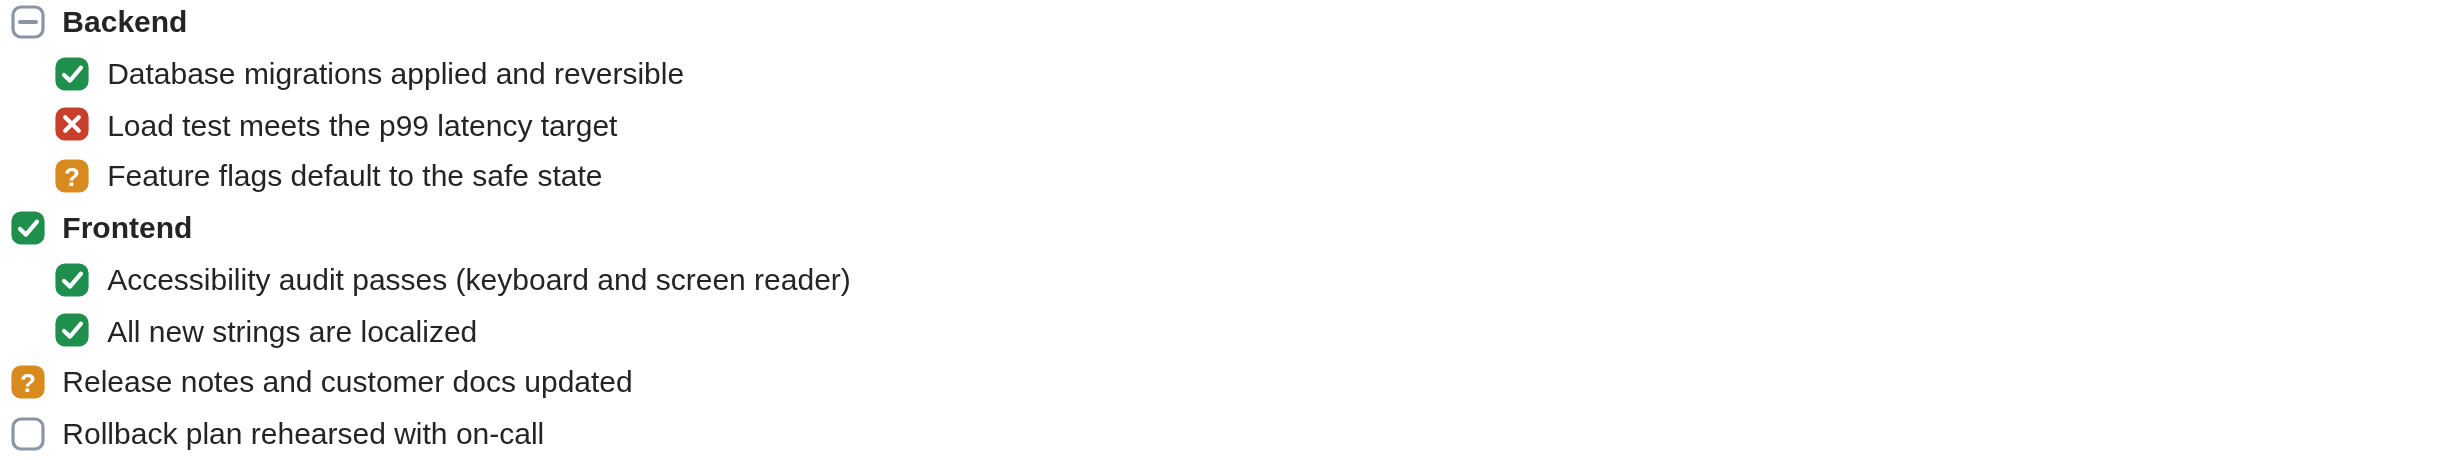
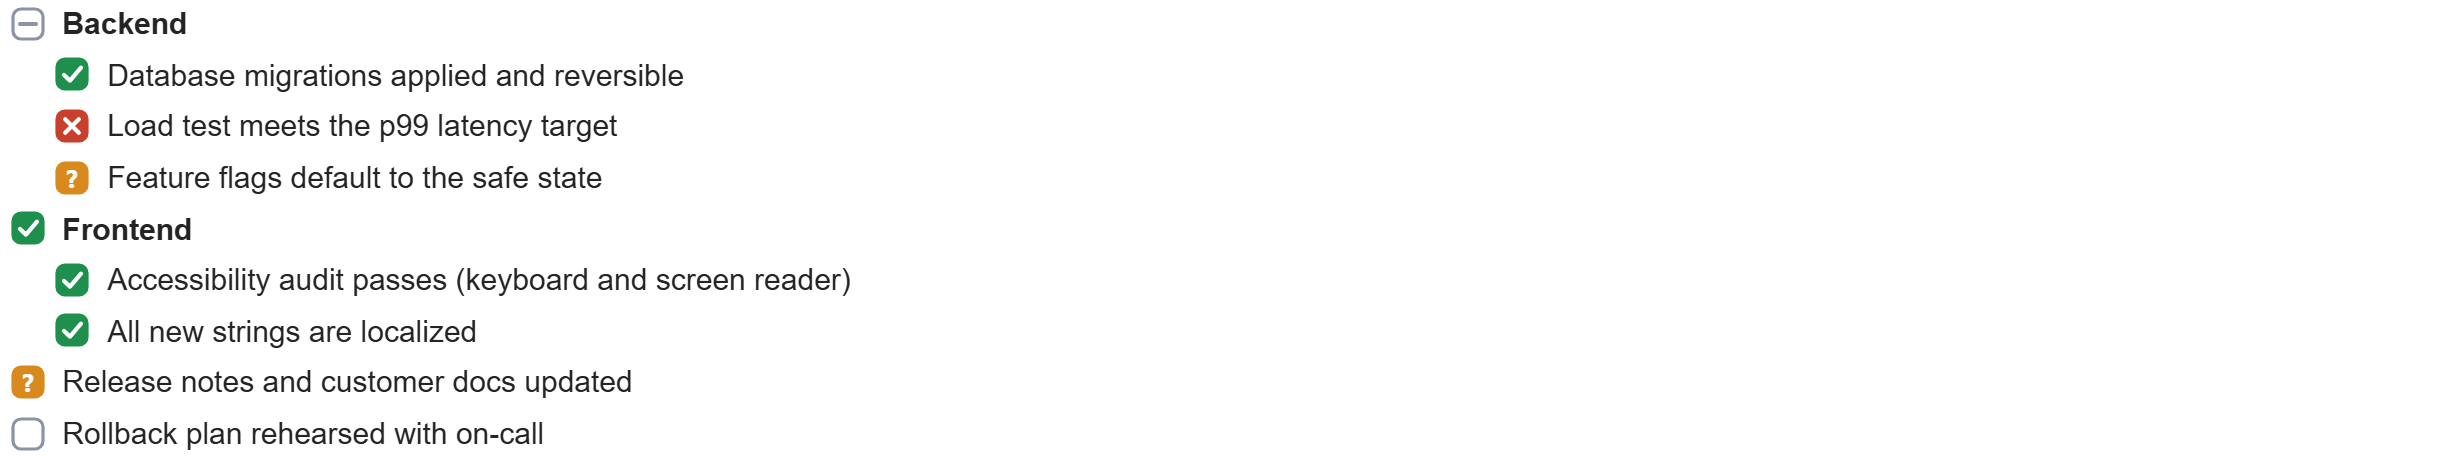
commentable-html: deck Backspace navigates to the previous slide
Add Backspace as a 'previous slide' key in deck mode, alongside ArrowLeft
and PageUp, matching the de-facto slide-tool convention. It respects the
existing navigation guards (editable target, comment mode, blocking deck
chrome). Updates CMH-DECK-05 spec + the CMH-DECK-05d Playwright test.

Closes #497

diff --git a/plugins/commentable-html/dev/tests/52-deck.spec.js b/plugins/commentable-html/dev/tests/52-deck.spec.js
@@ -95,7 +95,7 @@ test.describe("deck runtime profile (CMH-DECK-05)", () => {
       window.__evts = [];
       document.addEventListener("cmh:slidechange", (e) => window.__evts.push(e.detail));
     });
-    // ArrowRight / Space / PageDown advance; ArrowLeft / PageUp go back; Home / End jump to ends.
+    // ArrowRight / Space / PageDown advance; ArrowLeft / PageUp / Backspace go back; Home / End jump to ends.
     await page.keyboard.press("ArrowRight");
     expect(await activeId(page)).toBe("slide-00000002");
     await expect(page.locator(".cmh-deck-count")).toHaveText("2 / 3");
@@ -105,6 +105,8 @@ test.describe("deck runtime profile (CMH-DECK-05)", () => {
     expect(await activeId(page)).toBe("slide-00000002");
     await page.keyboard.press("PageDown");
     expect(await activeId(page)).toBe("slide-00000003");
+    await page.keyboard.press("Backspace");
+    expect(await activeId(page)).toBe("slide-00000002");
     await page.keyboard.press("Home");
     expect(await activeId(page)).toBe("slide-00000001");
     await page.keyboard.press("End");

diff --git a/plugins/commentable-html/dev/assets/js/01-config.js b/plugins/commentable-html/dev/assets/js/01-config.js
@@ -30,7 +30,7 @@ const SAFE_ID_RE = /^c[a-z0-9]{6,63}$/;
 
 // Version of this runtime, stamped from dev/VERSION by build.py. Do not hand-edit;
 // bump dev/VERSION and rebuild.
-const CMH_VERSION = "1.175.0";
+const CMH_VERSION = "1.178.0";
 const CMH_REGION_NAMES = ["CSS", "HANDLED IDS", "EMBEDDED COMMENTS", "COMMENT UI", "JS"];
 // Inline brand icon (a comment bubble) used in the sidebar meta row, the footer, and the
 // Help About section. Uses the accent color so it matches the theme.

diff --git a/plugins/commentable-html/dev/assets/js/95-startup.js b/plugins/commentable-html/dev/assets/js/95-startup.js
@@ -845,7 +845,7 @@ function setupDeck() {
     if (commentMode || e.defaultPrevented || isEditableTarget(e.target) || hasBlockingDeckChrome()) return;
     if (e.key === "ArrowRight" || e.key === "PageDown") {
       if (show(current + 1)) e.preventDefault();
-    } else if (e.key === "ArrowLeft" || e.key === "PageUp") {
+    } else if (e.key === "ArrowLeft" || e.key === "PageUp" || e.key === "Backspace") {
       if (show(current - 1)) e.preventDefault();
     } else if (e.key === "Home") {
       if (show(0)) e.preventDefault();

diff --git a/plugins/commentable-html/CHANGELOG.md b/plugins/commentable-html/CHANGELOG.md
@@ -4,6 +4,15 @@ All notable changes to the `commentable-html` plugin are documented here. The fo
 [Keep a Changelog](https://keepachangelog.com/en/1.1.0/) and versions follow
 [Semantic Versioning](https://semver.org/spec/v2.0.0.html).
 
+## [1.178.0] - 2026-07-20
+
+### Added
+
+- Deck mode now accepts `Backspace` as a "previous slide" key, alongside `ArrowLeft` and `PageUp`, so
+  presenters can step one slide back with the key many slide tools use (CMH-DECK-05). It respects the
+  same guards as the other navigation keys: it does not move slides while a comment field or other
+  editable target is focused, or while the comment-options menu or other blocking deck chrome is open.
+
 ## [1.175.0] - 2026-07-19
 
 ### Fixed

diff --git a/plugins/commentable-html/dev/SPEC.md b/plugins/commentable-html/dev/SPEC.md
@@ -509,7 +509,7 @@ The commentable-html skill incorporates the third-party frontend-slides design s
 | CMH-DECK-THEME-04 | The maintainer refresh flow for the native presets is two dev-only tools. `dev/tools/fs_theme_convert.py` deterministically converts a frontend-slides `STYLE_PRESETS.md` style into a STARTER `<name>.theme.json`: darkest colour to the slide/stage background, lightest to the foreground, most-saturated mid to the accent, the higher-contrast black/white for the accent text, a distinct mid (else a neutral gray) for muted, and remote display/body fonts substituted for the approved system stacks (reusing `deck_fix_fonts`); every emitted token is in the theme allowlist, the output is flagged `_starter` (not required to pass the strict validator) and carries frontend-slides `adaptedFrom` provenance plus the vendored `sourceCommit`. `dev/tools/check_theme_sources.py` is the staleness gate (a step in the required `validate` CI job): it fails closed when a `tools/deck/themes/*.theme.json` lacks `adaptedFrom`/`sourceCommit` or when its `sourceCommit` lags the vendored frontend-slides commit (an unacknowledged upstream change), and a maintainer acknowledges a refresh - re-ported or "reviewed, no change" - by setting `sourceCommit` to the new vendored commit. | `tests/test_fs_theme_convert.py` - `test_darkest_colour_becomes_the_slide_and_stage_background`, `test_lightest_colour_becomes_the_foreground`, `test_most_saturated_mid_colour_becomes_the_accent`, `test_accent_fg_is_the_higher_contrast_of_black_or_white`, `test_muted_is_a_distinct_mid_colour_not_the_accent`, `test_muted_falls_back_to_a_neutral_gray_when_no_spare_colour`, `test_fonts_are_substituted_for_approved_system_stacks`, `test_unrecognized_font_family_maps_to_a_system_stack_not_null`, `test_no_token_carries_a_remote_or_upstream_font_family`, `test_every_emitted_token_is_in_the_theme_allowlist`, `test_output_is_a_flagged_starter_with_frontend_slides_provenance`, `test_conversion_is_deterministic`, `test_degenerate_single_colour_palette_raises`, `test_four_digit_hex_with_alpha_is_parsed`, `test_unknown_preset_raises`, `test_bold_signal_from_the_vendored_presets_file`, `test_cli_writes_a_starter_file`, `test_cli_unknown_preset_exits_nonzero`; `tests/test_check_theme_sources.py` - `test_real_presets_pass`, `test_matching_source_commit_passes`, `test_missing_adapted_from_fails`, `test_missing_source_commit_fails`, `test_stale_source_commit_is_an_unacknowledged_change_and_fails`, `test_acknowledging_the_refresh_clears_the_failure`, `test_invalid_json_fails`, `test_unparseable_upstream_commit_fails_closed`, `test_cli_returns_zero_on_real_presets` |
 | CMH-DECK-THEME-05 | An objective A/B evaluation harness (`dev/eval/theme_eval.py`) gates preset expansion on measurable quality instead of eyeballing. It renders a fixed corpus of deck slide fragments (`dev/eval/corpus/*.html`) under an unthemed baseline AND every shipped preset via the real `deck_scaffold` -> `deck_validate` path, and records per (theme, corpus) cell: the create-time result (0 == deck-contract + AA-contrast pass), the `deck_checks` error count (must be 0), the `deck_warnings` content-overload advisory count (clipping proxy, must be 0), and the byte delta a theme adds over the baseline (token/latency proxy, bounded by a ceiling). `gate_failures()` turns these into pass/fail thresholds so a new preset that fails contrast, clips authored content, or bloats a deck fails the gate; the subjective "blind visual preference" leg is an explicit manual step (documented in `frontend-slides-upstream-sync.md`), not automated. | `tests/test_theme_eval.py` - `test_real_corpus_and_themes_pass_the_gate`, `test_every_shipped_theme_and_the_baseline_are_covered`, `test_each_theme_adds_a_bounded_nonzero_block`, `test_gate_catches_a_real_content_overload_slide`, `test_gate_catches_a_scaffold_failure`, `test_gate_catches_a_validator_error`, `test_gate_catches_theme_bloat`, `test_clean_rows_have_no_failures`, `test_cli_returns_zero_on_the_real_corpus`, `test_cli_fails_closed_on_an_empty_or_missing_corpus` |
 | CMH-DECK-THEME-06 | The shipped preset set includes two LIGHT native presets alongside the dark `terminal`: `paper` (warm-cream, editorial-serif, crimson accent) and `editorial` (soft-cream, serif, deep-teal accent), each adapted from a frontend-slides `STYLE_PRESETS.md` style (credited via `adaptedFrom` + `sourceCommit`). Because the default component tokens are dark, a light preset overrides the full token set (slide + code + syntax + table head + diff + mermaid) and still passes `_deck_theme.load` (both the composited effective-contrast check over translucent diff rows and its own opaque `contrastPairs` self-check at AA), and the objective harness (CMH-DECK-THEME-05) renders both clean (no validator error, no clipping advisory, bounded byte delta). To keep light decks legible, the previously hard-coded-dark code-control surfaces are now themeable via `var(--token, <byte-exact default>)`: the code/KQL language + copy badge background (`--cmh-deck-code-badge-bg`), the KQL run-link hover colour (`--cmh-deck-code-link-hover-fg`), and the Mermaid subgraph cluster fill/stroke (`--cmh-deck-mermaid-cluster-fill`/`-stroke`); the light presets set readable values and self-check the badge and cluster-label pairs. | `tests/test_deck_theme.py` - `test_new_light_presets_ship_and_list`, `test_every_shipped_preset_loads_and_self_checks`, `test_new_presets_are_light`, `test_new_presets_carry_frontend_slides_provenance`, `test_new_presets_render_a_scoped_labelled_block`; `tests/test_theme_eval.py` - `test_every_shipped_theme_and_the_baseline_are_covered`, `test_real_corpus_and_themes_pass_the_gate` |
-| CMH-DECK-05 | The runtime deck profile (activated by `#commentRoot[data-cmh-mode="deck"]` on the real content root) exposes `window.__cmhDeck` (`showSlide`/`showSlideById`/`activeSlideId`/`slideCount`), scales the fixed 1920x1080 stage to exactly `min(vw/1920, vh/1080)` (including refits on window resize and the open-panel sidebar inset), starts on the first slide and navigates by keyboard / id / the slide control bar, gates navigation while focus is editable or blocking deck chrome is open, guards invalid navigation calls, dispatches `cmh:slidechange` only for a changed active slide, installs deck chrome exactly once, suppresses flow-document chrome, and defaults to closed mode: comments are enabled, the review panel and toolbar are hidden, text selection and right-click document comments are available, and the slide is full-screen. Open mode reveals the sidebar, narrows and refits the stage, force-reveals staged slide content, and gates navigation keys. Off mode suppression and persistence are covered by CMH-DECK-22. Comment cards jump to their owning slide (including non-text `[data-cids~]` anchors and document-wide comments) with highlights restoring on hidden slides across reload. Transient deck body classes are stripped on export, and Export Offline round-trips a deck with comments and card jumps with zero network. The sidebar empty state carries a deck-specific hint; on narrow screens the controls yield to the open sidebar. Non-deck documents are unaffected. | `tests/52-deck.spec.js` - `CMH-DECK-05: exposes the controller and starts on the first slide`, `CMH-DECK-05d: keyboard, id, and prev/next navigation; doc-mode chrome suppressed`, `CMH-DECK-05d: typing in an editable field does not navigate; deck chrome is installed once`, `CMH-DECK-05d: the deck-aware jump resolves a non-text ([data-cids~]) anchor's slide`, `CMH-DECK-05d: cmh:slidechange fires only for a changed active slide`, `CMH-DECK-05: the stage refits on viewport resize and open mode narrows it`, `CMH-DECK-05: slides fit the fixed 1080px stage and vertical overflow is detectable as clipping`, `CMH-DECK-05a: default closed mode hides the panel; open mode reveals it and gates keys`, `CMH-DECK-05a: default closed mode allows the doc-comment menu; off mode suppresses it`, `CMH-DECK-05a: on a narrow screen the deck controls yield to the open sidebar`, `CMH-DECK-05a: open mode force-reveals staged slide content`, `CMH-DECK-05c/05d: a comment restores on a hidden slide and its card jumps to that slide`, `CMH-DECK-05c: a comment on a hidden slide restores after reload`, `CMH-DECK-05: a REAL scaffolded deck activates the runtime, not the flow-document chrome`, `CMH-DECK-05: Export Offline round-trips a deck (mode + comments + card jump) with zero network` |
+| CMH-DECK-05 | The runtime deck profile (activated by `#commentRoot[data-cmh-mode="deck"]` on the real content root) exposes `window.__cmhDeck` (`showSlide`/`showSlideById`/`activeSlideId`/`slideCount`), scales the fixed 1920x1080 stage to exactly `min(vw/1920, vh/1080)` (including refits on window resize and the open-panel sidebar inset), starts on the first slide and navigates by keyboard (ArrowRight/PageDown/Space advance, ArrowLeft/PageUp/Backspace go back, Home/End jump to the ends) / id / the slide control bar, gates navigation while focus is editable or blocking deck chrome is open, guards invalid navigation calls, dispatches `cmh:slidechange` only for a changed active slide, installs deck chrome exactly once, suppresses flow-document chrome, and defaults to closed mode: comments are enabled, the review panel and toolbar are hidden, text selection and right-click document comments are available, and the slide is full-screen. Open mode reveals the sidebar, narrows and refits the stage, force-reveals staged slide content, and gates navigation keys. Off mode suppression and persistence are covered by CMH-DECK-22. Comment cards jump to their owning slide (including non-text `[data-cids~]` anchors and document-wide comments) with highlights restoring on hidden slides across reload. Transient deck body classes are stripped on export, and Export Offline round-trips a deck with comments and card jumps with zero network. The sidebar empty state carries a deck-specific hint; on narrow screens the controls yield to the open sidebar. Non-deck documents are unaffected. | `tests/52-deck.spec.js` - `CMH-DECK-05: exposes the controller and starts on the first slide`, `CMH-DECK-05d: keyboard, id, and prev/next navigation; doc-mode chrome suppressed`, `CMH-DECK-05d: typing in an editable field does not navigate; deck chrome is installed once`, `CMH-DECK-05d: the deck-aware jump resolves a non-text ([data-cids~]) anchor's slide`, `CMH-DECK-05d: cmh:slidechange fires only for a changed active slide`, `CMH-DECK-05: the stage refits on viewport resize and open mode narrows it`, `CMH-DECK-05: slides fit the fixed 1080px stage and vertical overflow is detectable as clipping`, `CMH-DECK-05a: default closed mode hides the panel; open mode reveals it and gates keys`, `CMH-DECK-05a: default closed mode allows the doc-comment menu; off mode suppresses it`, `CMH-DECK-05a: on a narrow screen the deck controls yield to the open sidebar`, `CMH-DECK-05a: open mode force-reveals staged slide content`, `CMH-DECK-05c/05d: a comment restores on a hidden slide and its card jumps to that slide`, `CMH-DECK-05c: a comment on a hidden slide restores after reload`, `CMH-DECK-05: a REAL scaffolded deck activates the runtime, not the flow-document chrome`, `CMH-DECK-05: Export Offline round-trips a deck (mode + comments + card jump) with zero network` |
 | CMH-DECK-06 | Deck mode includes a split-screen slide-overview navigator: the nav-bar toggle and `o` shortcut open a numbered title list with one button per slide, each card showing `.cmh-deck-overview-card-num` and `.cmh-deck-overview-card-label` (and no thumbnail/scale clones), each card carries the slide title as its tooltip and accessible label, click or Enter/Space jumps to that slide and closes the list, Escape closes it, arrow/Home/End keys move focus inside the list, the list has no nested thumbnail focus targets, the lazy overview is stripped from exports, and the same overview works in closed and open modes. | `tests/52-deck.spec.js` - `CMH-DECK-06: overview title list opens, lists every slide, titles slides, and click-jumps`, `CMH-DECK-06: overview keyboard shortcut opens, closes, and selects in closed and open modes`, `CMH-DECK-06: overview title list has no thumbnail clones or nested focusables`, `CMH-DECK-05: Export Offline round-trips a deck (mode + comments + card jump) with zero network` |
 | CMH-DECK-08 | The shipped showcase deck's triage board opts into widget drag-and-drop, so decision cards can move between columns inside the scaled fixed-stage deck and Copy all reports the layout change like report-mode widget moves. | `tests/62-deck-regressions.spec.js` - `CMH-DECK-08: showcase deck triage cards drag between columns` |
 | CMH-DECK-09 | Mermaid diagrams authored on the light parchment deck slides render as visible nodes and edges with high-contrast labels and connectors against the solid slide background instead of washing out; the connector strokes and arrowheads are also thick enough to stay readable at deck scale. | `tests/62-deck-regressions.spec.js` - `CMH-DECK-09: showcase deck Mermaid diagram renders with readable contrast` |

diff --git a/plugins/commentable-html/dev/skill/SKILL.md b/plugins/commentable-html/dev/skill/SKILL.md
@@ -5,7 +5,7 @@ description: Turn a standalone HTML report, plan, dashboard, or design doc into 
 
 # Commentable HTML
 
-**Version:** `1.175.0`
+**Version:** `1.178.0`
 
 Commentable HTML turns a standalone HTML artifact into an in-browser review surface: reviewers comment on exact prose, code, diffs, diagrams, charts, images, headings, widgets, or table cells, then copy or export structured feedback for the agent to apply.
 

diff --git a/plugins/commentable-html/dev/spec/70-deck.md b/plugins/commentable-html/dev/spec/70-deck.md
@@ -23,7 +23,7 @@ The commentable-html skill incorporates the third-party frontend-slides design s
 | CMH-DECK-THEME-04 | The maintainer refresh flow for the native presets is two dev-only tools. `dev/tools/fs_theme_convert.py` deterministically converts a frontend-slides `STYLE_PRESETS.md` style into a STARTER `<name>.theme.json`: darkest colour to the slide/stage background, lightest to the foreground, most-saturated mid to the accent, the higher-contrast black/white for the accent text, a distinct mid (else a neutral gray) for muted, and remote display/body fonts substituted for the approved system stacks (reusing `deck_fix_fonts`); every emitted token is in the theme allowlist, the output is flagged `_starter` (not required to pass the strict validator) and carries frontend-slides `adaptedFrom` provenance plus the vendored `sourceCommit`. `dev/tools/check_theme_sources.py` is the staleness gate (a step in the required `validate` CI job): it fails closed when a `tools/deck/themes/*.theme.json` lacks `adaptedFrom`/`sourceCommit` or when its `sourceCommit` lags the vendored frontend-slides commit (an unacknowledged upstream change), and a maintainer acknowledges a refresh - re-ported or "reviewed, no change" - by setting `sourceCommit` to the new vendored commit. | `tests/test_fs_theme_convert.py` - `test_darkest_colour_becomes_the_slide_and_stage_background`, `test_lightest_colour_becomes_the_foreground`, `test_most_saturated_mid_colour_becomes_the_accent`, `test_accent_fg_is_the_higher_contrast_of_black_or_white`, `test_muted_is_a_distinct_mid_colour_not_the_accent`, `test_muted_falls_back_to_a_neutral_gray_when_no_spare_colour`, `test_fonts_are_substituted_for_approved_system_stacks`, `test_unrecognized_font_family_maps_to_a_system_stack_not_null`, `test_no_token_carries_a_remote_or_upstream_font_family`, `test_every_emitted_token_is_in_the_theme_allowlist`, `test_output_is_a_flagged_starter_with_frontend_slides_provenance`, `test_conversion_is_deterministic`, `test_degenerate_single_colour_palette_raises`, `test_four_digit_hex_with_alpha_is_parsed`, `test_unknown_preset_raises`, `test_bold_signal_from_the_vendored_presets_file`, `test_cli_writes_a_starter_file`, `test_cli_unknown_preset_exits_nonzero`; `tests/test_check_theme_sources.py` - `test_real_presets_pass`, `test_matching_source_commit_passes`, `test_missing_adapted_from_fails`, `test_missing_source_commit_fails`, `test_stale_source_commit_is_an_unacknowledged_change_and_fails`, `test_acknowledging_the_refresh_clears_the_failure`, `test_invalid_json_fails`, `test_unparseable_upstream_commit_fails_closed`, `test_cli_returns_zero_on_real_presets` |
 | CMH-DECK-THEME-05 | An objective A/B evaluation harness (`dev/eval/theme_eval.py`) gates preset expansion on measurable quality instead of eyeballing. It renders a fixed corpus of deck slide fragments (`dev/eval/corpus/*.html`) under an unthemed baseline AND every shipped preset via the real `deck_scaffold` -> `deck_validate` path, and records per (theme, corpus) cell: the create-time result (0 == deck-contract + AA-contrast pass), the `deck_checks` error count (must be 0), the `deck_warnings` content-overload advisory count (clipping proxy, must be 0), and the byte delta a theme adds over the baseline (token/latency proxy, bounded by a ceiling). `gate_failures()` turns these into pass/fail thresholds so a new preset that fails contrast, clips authored content, or bloats a deck fails the gate; the subjective "blind visual preference" leg is an explicit manual step (documented in `frontend-slides-upstream-sync.md`), not automated. | `tests/test_theme_eval.py` - `test_real_corpus_and_themes_pass_the_gate`, `test_every_shipped_theme_and_the_baseline_are_covered`, `test_each_theme_adds_a_bounded_nonzero_block`, `test_gate_catches_a_real_content_overload_slide`, `test_gate_catches_a_scaffold_failure`, `test_gate_catches_a_validator_error`, `test_gate_catches_theme_bloat`, `test_clean_rows_have_no_failures`, `test_cli_returns_zero_on_the_real_corpus`, `test_cli_fails_closed_on_an_empty_or_missing_corpus` |
 | CMH-DECK-THEME-06 | The shipped preset set includes two LIGHT native presets alongside the dark `terminal`: `paper` (warm-cream, editorial-serif, crimson accent) and `editorial` (soft-cream, serif, deep-teal accent), each adapted from a frontend-slides `STYLE_PRESETS.md` style (credited via `adaptedFrom` + `sourceCommit`). Because the default component tokens are dark, a light preset overrides the full token set (slide + code + syntax + table head + diff + mermaid) and still passes `_deck_theme.load` (both the composited effective-contrast check over translucent diff rows and its own opaque `contrastPairs` self-check at AA), and the objective harness (CMH-DECK-THEME-05) renders both clean (no validator error, no clipping advisory, bounded byte delta). To keep light decks legible, the previously hard-coded-dark code-control surfaces are now themeable via `var(--token, <byte-exact default>)`: the code/KQL language + copy badge background (`--cmh-deck-code-badge-bg`), the KQL run-link hover colour (`--cmh-deck-code-link-hover-fg`), and the Mermaid subgraph cluster fill/stroke (`--cmh-deck-mermaid-cluster-fill`/`-stroke`); the light presets set readable values and self-check the badge and cluster-label pairs. | `tests/test_deck_theme.py` - `test_new_light_presets_ship_and_list`, `test_every_shipped_preset_loads_and_self_checks`, `test_new_presets_are_light`, `test_new_presets_carry_frontend_slides_provenance`, `test_new_presets_render_a_scoped_labelled_block`; `tests/test_theme_eval.py` - `test_every_shipped_theme_and_the_baseline_are_covered`, `test_real_corpus_and_themes_pass_the_gate` |
-| CMH-DECK-05 | The runtime deck profile (activated by `#commentRoot[data-cmh-mode="deck"]` on the real content root) exposes `window.__cmhDeck` (`showSlide`/`showSlideById`/`activeSlideId`/`slideCount`), scales the fixed 1920x1080 stage to exactly `min(vw/1920, vh/1080)` (including refits on window resize and the open-panel sidebar inset), starts on the first slide and navigates by keyboard / id / the slide control bar, gates navigation while focus is editable or blocking deck chrome is open, guards invalid navigation calls, dispatches `cmh:slidechange` only for a changed active slide, installs deck chrome exactly once, suppresses flow-document chrome, and defaults to closed mode: comments are enabled, the review panel and toolbar are hidden, text selection and right-click document comments are available, and the slide is full-screen. Open mode reveals the sidebar, narrows and refits the stage, force-reveals staged slide content, and gates navigation keys. Off mode suppression and persistence are covered by CMH-DECK-22. Comment cards jump to their owning slide (including non-text `[data-cids~]` anchors and document-wide comments) with highlights restoring on hidden slides across reload. Transient deck body classes are stripped on export, and Export Offline round-trips a deck with comments and card jumps with zero network. The sidebar empty state carries a deck-specific hint; on narrow screens the controls yield to the open sidebar. Non-deck documents are unaffected. | `tests/52-deck.spec.js` - `CMH-DECK-05: exposes the controller and starts on the first slide`, `CMH-DECK-05d: keyboard, id, and prev/next navigation; doc-mode chrome suppressed`, `CMH-DECK-05d: typing in an editable field does not navigate; deck chrome is installed once`, `CMH-DECK-05d: the deck-aware jump resolves a non-text ([data-cids~]) anchor's slide`, `CMH-DECK-05d: cmh:slidechange fires only for a changed active slide`, `CMH-DECK-05: the stage refits on viewport resize and open mode narrows it`, `CMH-DECK-05: slides fit the fixed 1080px stage and vertical overflow is detectable as clipping`, `CMH-DECK-05a: default closed mode hides the panel; open mode reveals it and gates keys`, `CMH-DECK-05a: default closed mode allows the doc-comment menu; off mode suppresses it`, `CMH-DECK-05a: on a narrow screen the deck controls yield to the open sidebar`, `CMH-DECK-05a: open mode force-reveals staged slide content`, `CMH-DECK-05c/05d: a comment restores on a hidden slide and its card jumps to that slide`, `CMH-DECK-05c: a comment on a hidden slide restores after reload`, `CMH-DECK-05: a REAL scaffolded deck activates the runtime, not the flow-document chrome`, `CMH-DECK-05: Export Offline round-trips a deck (mode + comments + card jump) with zero network` |
+| CMH-DECK-05 | The runtime deck profile (activated by `#commentRoot[data-cmh-mode="deck"]` on the real content root) exposes `window.__cmhDeck` (`showSlide`/`showSlideById`/`activeSlideId`/`slideCount`), scales the fixed 1920x1080 stage to exactly `min(vw/1920, vh/1080)` (including refits on window resize and the open-panel sidebar inset), starts on the first slide and navigates by keyboard (ArrowRight/PageDown/Space advance, ArrowLeft/PageUp/Backspace go back, Home/End jump to the ends) / id / the slide control bar, gates navigation while focus is editable or blocking deck chrome is open, guards invalid navigation calls, dispatches `cmh:slidechange` only for a changed active slide, installs deck chrome exactly once, suppresses flow-document chrome, and defaults to closed mode: comments are enabled, the review panel and toolbar are hidden, text selection and right-click document comments are available, and the slide is full-screen. Open mode reveals the sidebar, narrows and refits the stage, force-reveals staged slide content, and gates navigation keys. Off mode suppression and persistence are covered by CMH-DECK-22. Comment cards jump to their owning slide (including non-text `[data-cids~]` anchors and document-wide comments) with highlights restoring on hidden slides across reload. Transient deck body classes are stripped on export, and Export Offline round-trips a deck with comments and card jumps with zero network. The sidebar empty state carries a deck-specific hint; on narrow screens the controls yield to the open sidebar. Non-deck documents are unaffected. | `tests/52-deck.spec.js` - `CMH-DECK-05: exposes the controller and starts on the first slide`, `CMH-DECK-05d: keyboard, id, and prev/next navigation; doc-mode chrome suppressed`, `CMH-DECK-05d: typing in an editable field does not navigate; deck chrome is installed once`, `CMH-DECK-05d: the deck-aware jump resolves a non-text ([data-cids~]) anchor's slide`, `CMH-DECK-05d: cmh:slidechange fires only for a changed active slide`, `CMH-DECK-05: the stage refits on viewport resize and open mode narrows it`, `CMH-DECK-05: slides fit the fixed 1080px stage and vertical overflow is detectable as clipping`, `CMH-DECK-05a: default closed mode hides the panel; open mode reveals it and gates keys`, `CMH-DECK-05a: default closed mode allows the doc-comment menu; off mode suppresses it`, `CMH-DECK-05a: on a narrow screen the deck controls yield to the open sidebar`, `CMH-DECK-05a: open mode force-reveals staged slide content`, `CMH-DECK-05c/05d: a comment restores on a hidden slide and its card jumps to that slide`, `CMH-DECK-05c: a comment on a hidden slide restores after reload`, `CMH-DECK-05: a REAL scaffolded deck activates the runtime, not the flow-document chrome`, `CMH-DECK-05: Export Offline round-trips a deck (mode + comments + card jump) with zero network` |
 | CMH-DECK-06 | Deck mode includes a split-screen slide-overview navigator: the nav-bar toggle and `o` shortcut open a numbered title list with one button per slide, each card showing `.cmh-deck-overview-card-num` and `.cmh-deck-overview-card-label` (and no thumbnail/scale clones), each card carries the slide title as its tooltip and accessible label, click or Enter/Space jumps to that slide and closes the list, Escape closes it, arrow/Home/End keys move focus inside the list, the list has no nested thumbnail focus targets, the lazy overview is stripped from exports, and the same overview works in closed and open modes. | `tests/52-deck.spec.js` - `CMH-DECK-06: overview title list opens, lists every slide, titles slides, and click-jumps`, `CMH-DECK-06: overview keyboard shortcut opens, closes, and selects in closed and open modes`, `CMH-DECK-06: overview title list has no thumbnail clones or nested focusables`, `CMH-DECK-05: Export Offline round-trips a deck (mode + comments + card jump) with zero network` |
 | CMH-DECK-08 | The shipped showcase deck's triage board opts into widget drag-and-drop, so decision cards can move between columns inside the scaled fixed-stage deck and Copy all reports the layout change like report-mode widget moves. | `tests/62-deck-regressions.spec.js` - `CMH-DECK-08: showcase deck triage cards drag between columns` |
 | CMH-DECK-09 | Mermaid diagrams authored on the light parchment deck slides render as visible nodes and edges with high-contrast labels and connectors against the solid slide background instead of washing out; the connector strokes and arrowheads are also thick enough to stay readable at deck scale. | `tests/62-deck-regressions.spec.js` - `CMH-DECK-09: showcase deck Mermaid diagram renders with readable contrast` |

diff --git a/plugins/commentable-html/pkg/skills/commentable-html/SKILL.md b/plugins/commentable-html/pkg/skills/commentable-html/SKILL.md
@@ -5,7 +5,7 @@ description: Turn a standalone HTML report, plan, dashboard, or design doc into 
 
 # Commentable HTML
 
-**Version:** `1.175.0`
+**Version:** `1.178.0`
 
 Commentable HTML turns a standalone HTML artifact into an in-browser review surface: reviewers comment on exact prose, code, diffs, diagrams, charts, images, headings, widgets, or table cells, then copy or export structured feedback for the agent to apply.
 